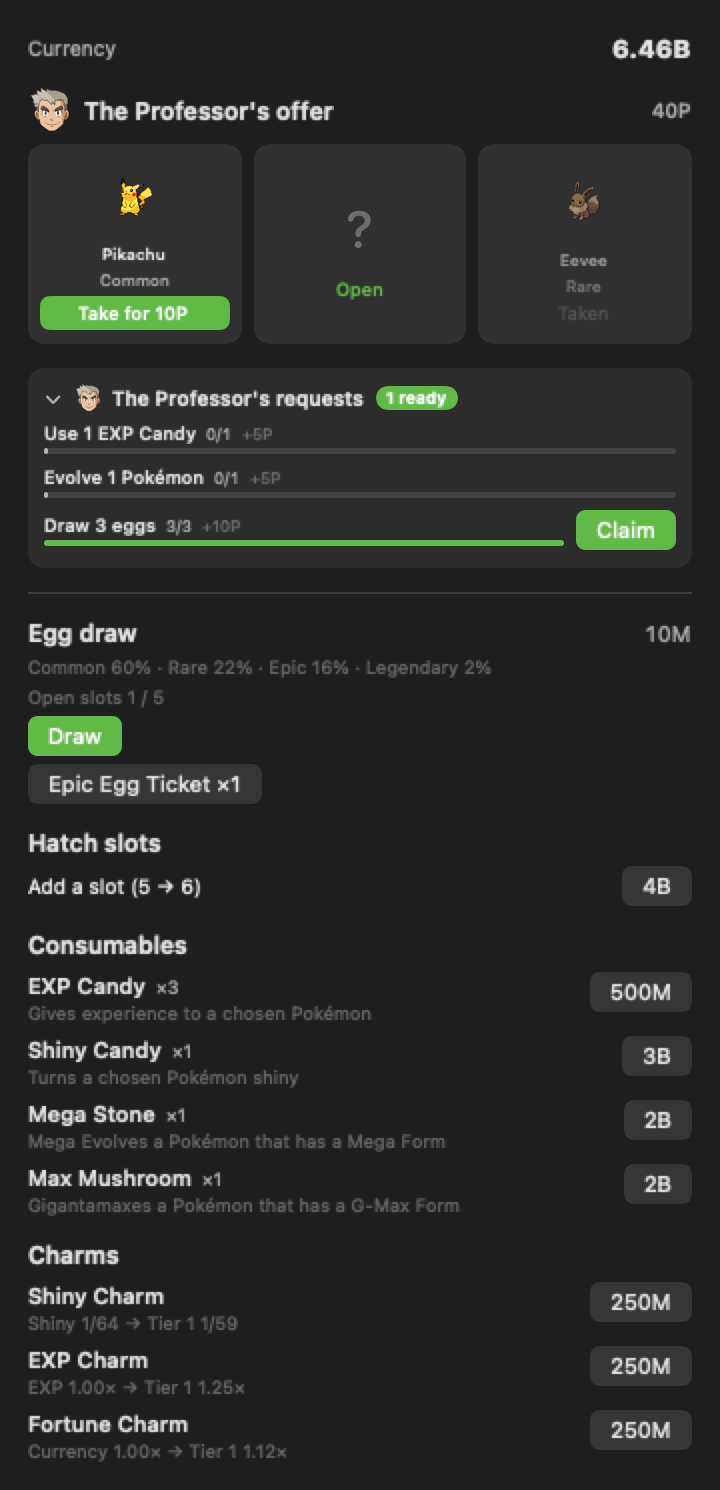
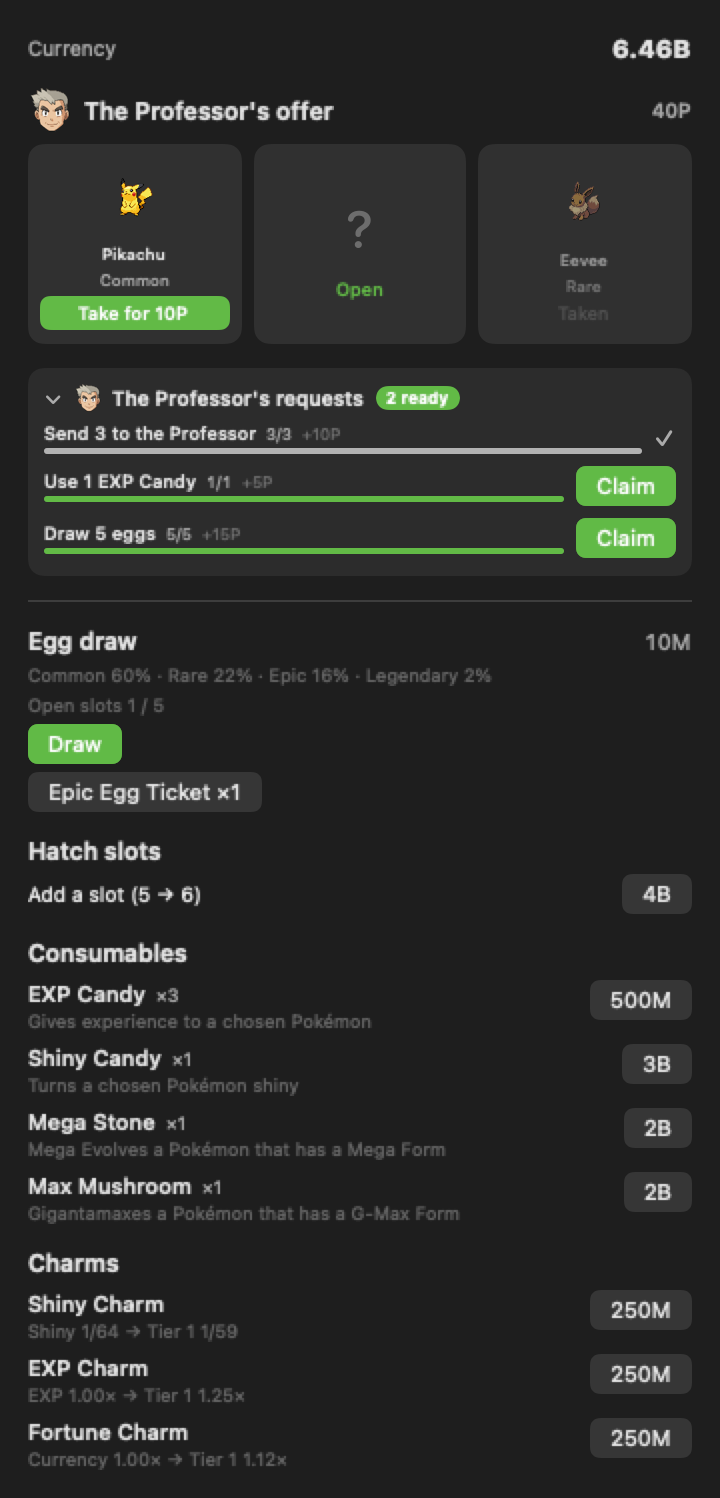
docs: forty-five collections, and one picture for the Professor's requests
The requests banner now shows the offers above them, which is the arrangement
this release introduced - points earned and points spent on one screen. It
replaces the old daily-goals picture rather than joining it; two images of one
feature only drift apart.

diff --git a/Tests/PokeDexBarTests/ScreenshotGenerator.swift b/Tests/PokeDexBarTests/ScreenshotGenerator.swift
@@ -1015,9 +1015,10 @@ final class ScreenshotGeneratorTests: XCTestCase {
         // §릴리스 1 하드 게이트가 요구하는 신규 에셋이 이것이다.
         try write(png(weatherBanner()), "weather-forms.png")
 
-        // 오늘의 목표 — 하나는 끝났고 하나는 받을 수 있고 하나는 진행 중인 상태가 이 기능의
-        // 전부다. §릴리스 1 하드 게이트가 요구하는 신규 에셋이 이것이다.
-        try write(png(dailyGoalsBanner()), "daily-goals.png")
+        // 박사의 제안 + 의뢰 — 이번 릴리스가 새로 만든 **배치**가 이것이다. 포인트를 버는 곳과
+        // 쓰는 곳이 한 자리에 붙었다는 게 요점이라, 둘을 따로 찍으면 그 뜻이 안 담긴다.
+        // §릴리스 1 하드 게이트가 요구하는 신규 에셋이 이것이다.
+        try write(png(professorRequestsBanner(fixture)), "professor-requests.png")
 
         // 문제 제보 — 크래시 배너(홈)와 설정의 제보 줄을 위아래로. **픽스처에 크래시 기록을
         // 심어야 배너가 찍힌다** — 안 심으면 아무리 다시 생성해도 빈 자리만 나온다(설정
@@ -1563,25 +1564,46 @@ final class ScreenshotGeneratorTests: XCTestCase {
         .background(Color(nsColor: .windowBackgroundColor))
     }
 
-    /// 오늘의 목표 한 줄 — 홈의 그 뷰(`DailyGoalsView`)를 그대로 쓴다. 세 과제가 각각 다른
-    /// 상태(수령함·받을 수 있음·진행 중)여야 줄마다 무엇이 다른지 그림에서 읽힌다.
-    private func dailyGoalsBanner() -> some View {
-        let now = ScreenshotFixture.now
-        let store = PlayerStore(fileURL: FileManager.default.temporaryDirectory
-                                    .appendingPathComponent("daily-\(UUID().uuidString).json"),
-                                rng: SeededRNG(seed: 12), now: { now },
-                                defaults: UserDefaults(suiteName: "ptb-daily-\(UUID().uuidString)")!)
-        store.setLanguage(.en)
-        store.mutate { $0.lastDate = "2026-09-03"; $0.offerSeed = 42 }
+    /// 박사의 제안과 그 아래 의뢰를, 상점에 놓인 순서 그대로. 두 뷰 다 앱이 쓰는 것 그대로다.
+    private func professorRequestsBanner(_ fixture: Fixture) -> some View {
+        let store = fixture.player
+        // 의뢰를 세 가지 상태로 — 받음·받을 수 있음·진행 중. 한 상태만 보이면 줄마다 무엇이
+        // 다른지 그림에서 안 읽힌다.
+        // 제안 세 칸도 같이 심는다 — 비어 있으면 "오늘의 제안을 준비 중" 한 줄만 나와서,
+        // **벌고 쓰는 자리가 붙었다**는 이 그림의 요점이 사라진다. 한 칸은 닫힌 채로 둬
+        // 가려진 제안이라는 성질도 같이 보인다.
+        store.mutate {
+            $0.lastDate = "2026-09-14"
+            $0.offerSeed = 42
+            $0.researchPoints = 40
+            $0.professorOfferDate = $0.lastDate
+            $0.professorOffers = [
+                ProfessorOffer(individual: Individual(baseID: 25, speciesID: 25, pathIDs: [25],
+                                                      nature: .jolly, obtainedAt: ScreenshotFixture.now,
+                                                      grade: .common),
+                              opened: true),
+                ProfessorOffer(individual: Individual(baseID: 700, speciesID: 700, pathIDs: [700],
+                                                      shiny: true, nature: .modest,
+                                                      obtainedAt: ScreenshotFixture.now, grade: .epic)),
+                ProfessorOffer(individual: Individual(baseID: 133, speciesID: 133, pathIDs: [133],
+                                                      nature: .calm, obtainedAt: ScreenshotFixture.now,
+                                                      grade: .rare),
+                              opened: true),
+            ]
+        }
         let quests = store.dailyQuests
-        store.countDailyActivity(quests[0].kind, by: quests[0].target)        // 끝냄 → 받음
+        store.countDailyActivity(quests[0].kind, by: quests[0].target)
         store.claimDailyQuest(quests[0])
-        store.countDailyActivity(quests[1].kind, by: quests[1].target)        // 끝냄 → 받기 전
-        store.countDailyActivity(quests[2].kind)                             // 진행 중
-        return DailyGoalsView(store: store)
-            .frame(width: PopoverMetrics.contentWidth)
-            .padding(16)
-            .background(Color(nsColor: .windowBackgroundColor))
+        store.countDailyActivity(quests[1].kind, by: quests[1].target)
+        store.countDailyActivity(quests[2].kind)
+        return VStack(alignment: .leading, spacing: 12) {
+            ProfessorOfferSection(store: store, provider: StubProvider(),
+                                  lines: ScreenshotFixture.lines, onNeedLine: { _ in })
+            DailyGoalsView(store: store)
+        }
+        .frame(width: PopoverMetrics.contentWidth)
+        .padding(16)
+        .background(Color(nsColor: .windowBackgroundColor))
     }
 
     private func boxTidyBanner() -> some View {

diff --git a/README.ko.md b/README.ko.md
@@ -180,13 +180,13 @@ PokeDexBar는 당신이 이미 태우고 있는 AI 코딩 토큰(Claude Code · 
 <h3>✅ 박사가 하루 세 가지를 부탁해요</h3>
 박사의 제안 바로 아래에 하루면 사라지는 의뢰 셋이 있어요 — 알 뽑기, 부화시키기, 진화시키기, 박사에게 보내기. 보상은 재화가 아니라 <b>박사 포인트</b>예요. 포인트로는 알을 못 사고 토큰으로는 포인트를 못 사서, 매일 하는 일이 상점을 앞지르지 않아요. 셋을 다 받으면 경험치 사탕 하나가 덤으로 한 번. 셋은 그날 날짜와 <b>내 세이브만의 시드</b>로 굴려서 모두의 것이 아니라 내 것이고, 어떤 의뢰도 하루치 수입보다 많이 쓰라고 하지 않아요.
 </td>
-<td width="45%" align="center"><img src="assets/daily-goals.png" width="300" alt="박사의 의뢰 — 하나는 받았고, 하나는 받을 수 있고, 하나는 진행 중"></td>
+<td width="45%" align="center"><img src="assets/professor-requests.png" width="300" alt="박사의 의뢰 — 하나는 받았고, 하나는 받을 수 있고, 하나는 진행 중"></td>
 </tr>
 <tr>
 <td width="45%" align="center"><img src="assets/screenshot-collections.png" width="300" alt="도감 탭의 컬렉션 섹션 — 완성한 줄에 메달이 붙고, 구성원 실루엣과 보상 줄이 보인다"></td>
 <td width="55%" valign="middle">
 <h3>🎖 컬렉션은 이야기를 모아요</h3>
-미션 옆에 주제별 세트 32개가 있어요 — 전설의 새, 클론의 진실(뮤·뮤츠·메타몽), 이브이 프렌즈, 여섯 세대의 화석 전부, 고대와 미래의 패러독스, <b>세대별 스타터 전부</b>, 그리고 동물로 묶은 넷 — 원숭이·고양이·강아지, 그리고 지방마다 첫 루트에서 기다리는 동네새까지. 구성원은 항상 실루엣으로 보여서 뭐가 빠졌는지 한눈에 알 수 있어요. 세트를 완성하면 줄에 메달이 켜지고 보상을 한 번 받아요 — 대부분은 경험치 사탕, 큰 세트는 레전더리 알 확정권. 레지 패밀리는 특별해요: 다섯 기둥을 모으면 <b>레지기가스가 직접 깨어나</b> 박스에 합류해요 — 알에서는 절대 나오지 않는 이 세트만의 보상이고, 이로치 확률도 그대로 굴러가요.
+미션 옆에 주제별 세트 45개가 있어요 — 전설의 새, 클론의 진실(뮤·뮤츠·메타몽), 이브이 프렌즈, 여섯 세대의 화석 전부, 고대와 미래의 패러독스, <b>세대별 스타터 전부</b>, 동물로 묶은 넷(원숭이·고양이·강아지·동네새), 그리고 <b>전설과 환상 전부</b>에 집이 생겼어요 — 성검사·수호신부터 재앙의 포켓몬과 키타카미의 전승까지. 구성원은 항상 실루엣으로 보여서 뭐가 빠졌는지 한눈에 알 수 있어요. 세트를 완성하면 줄에 메달이 켜지고 보상을 한 번 받아요 — 대부분은 경험치 사탕, 큰 세트는 레전더리 알 확정권. 레지 패밀리는 특별해요: 다섯 기둥을 모으면 <b>레지기가스가 직접 깨어나</b> 박스에 합류해요 — 알에서는 절대 나오지 않는 이 세트만의 보상이고, 이로치 확률도 그대로 굴러가요.
 </td>
 </tr>
 <tr>

diff --git a/README.md b/README.md
@@ -180,13 +180,13 @@ Filling the Dex now carries missions, shaped after the games: rewards at registr
 <h3>✅ Three requests a day, from the Professor</h3>
 Three small requests sit under the Professor's offer and reset with the day: draw eggs, hatch them, evolve something, send a Pokémon his way. They pay <b>research points</b> rather than currency — the Professor's own coin, which cannot buy eggs and cannot be bought with tokens, so a daily habit never outpaces the shop. Clear all three and you get one EXP Candy, once. The three are rolled from the day and from your save's own seed, so they are yours rather than everyone's, and no request ever asks you to spend more than a day's worth of tokens.
 </td>
-<td width="45%" align="center"><img src="assets/daily-goals.png" width="300" alt="The Professor's requests — one claimed, one ready to claim, one still in progress"></td>
+<td width="45%" align="center"><img src="assets/professor-requests.png" width="300" alt="The Professor's requests — one claimed, one ready to claim, one still in progress"></td>
 </tr>
 <tr>
 <td width="45%" align="center"><img src="assets/screenshot-collections.png" width="300" alt="The Dex tab's collections section — themed sets with medal badges on completed rows, member silhouettes, and reward lines"></td>
 <td width="55%" valign="middle">
 <h3>🎖 Collections tell the stories</h3>
-Thirty-two themed sets sit beside the missions: the Legendary Birds, the Clone Truth (Mew, Mewtwo, Ditto), Eevee Friends, every fossil ever revived, the paradox Pokémon of past and future, <b>every generation's starter trio</b>, and four gathered by animal — the monkeys, the cats, the dogs, and the bird that waits on every region's first route. Members always show as inline silhouettes, so what's missing is visible at a glance. Completing a set lights a medal on its row and pays once — EXP Candies for most, a guaranteed Legendary Egg Ticket for the big ones. The Regi family is special: gather the five pillars and <b>Regigigas itself awakens</b>, joining your Box directly — it never hatches from an egg, and shiny odds apply as usual.
+Forty-five themed sets sit beside the missions: the Legendary Birds, the Clone Truth (Mew, Mewtwo, Ditto), Eevee Friends, every fossil ever revived, the paradox Pokémon of past and future, <b>every generation's starter trio</b>, four gathered by animal — the monkeys, the cats, the dogs, and the bird that waits on every region's first route — and a home for <b>every legendary and mythical</b>, from the Swords of Justice and the Island Guardians to the Treasures of Ruin and the Kitakami legend. Members always show as inline silhouettes, so what's missing is visible at a glance. Completing a set lights a medal on its row and pays once — EXP Candies for most, a guaranteed Legendary Egg Ticket for the big ones. The Regi family is special: gather the five pillars and <b>Regigigas itself awakens</b>, joining your Box directly — it never hatches from an egg, and shiny odds apply as usual.
 </td>
 </tr>
 <tr>
